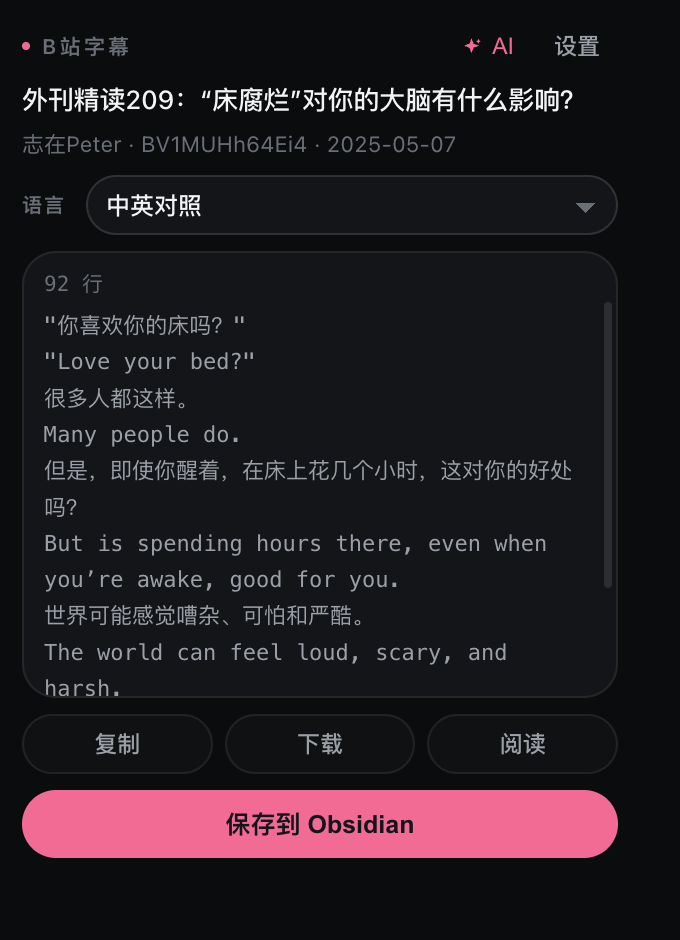
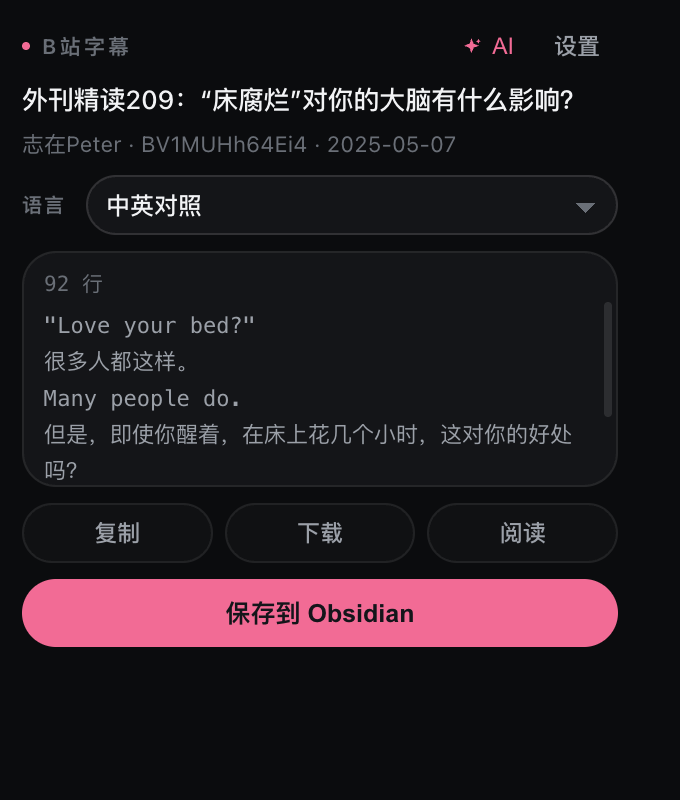
style: 弹窗高度改由内容决定，440 → 335px
预览区之前是 flex: 1，会把剩余空间全部吃掉，弹窗就被撑到写死的
440px——多出来的高度全是空着的预览。

- html/body 不再写死高度，只固定宽度（320）
- 预览区改成固定 116px（约 4-5 行），不再参与撑高
- 删掉矮屏的媒体查询：高度自适应后已经不需要

净高 335px（生成按钮出现时约 375），预览仍是 116px。

diff --git a/extension/popup.css b/extension/popup.css
@@ -31,13 +31,11 @@ body {
   margin: 0;
   padding: 0;
   /*
-   * 弹窗尺寸由内容决定，不能用 vw/vh：那会形成循环依赖、解析成极小值，
-   * 整个框会塌掉。固定尺寸 + 下限，放不下交给浏览器夹、容器滚动兜底。
+   * 宽度固定，高度交给内容——不写 vh/vw：弹窗尺寸由内容布局推导，
+   * 用视口单位会形成循环依赖、解析成极小值，整个框塌掉。
    */
   width: 320px;
   min-width: 288px;
-  height: 440px;
-  min-height: 372px;
   background: var(--canvas);
   color: var(--text);
   /* UI 用 SF Pro，跟系统一致；技术性内容另用等宽，靠字体对比建立层次 */
@@ -48,8 +46,6 @@ body {
 }
 
 .popup {
-  height: 100%;
-  min-height: 372px;
   box-sizing: border-box;
   padding: 11px;
   display: flex;
@@ -297,9 +293,9 @@ body {
 /* ---------- 预览 ---------- */
 
 .preview-card {
-  /* basis 归零，剩余空间才分得准；auto 会多占几个像素导致溢出 */
-  flex: 1 1 0;
-  min-height: 72px;
+  /* 固定高度：之前 flex:1 会把剩余空间全吃掉，弹窗白白被撑大 */
+  flex: 0 0 auto;
+  height: 116px;
   display: flex;
   flex-direction: column;
   border: 1px solid var(--line);
@@ -454,14 +450,4 @@ button:disabled {
   display: none;
 }
 
-/* 屏幕矮的时候收紧留白，优先保证按钮可见 */
-@media (max-height: 460px) {
-  .popup {
-    padding: 10px;
-    gap: 8px;
-  }
 
-  .preview-card {
-    min-height: 56px;
-  }
-}
